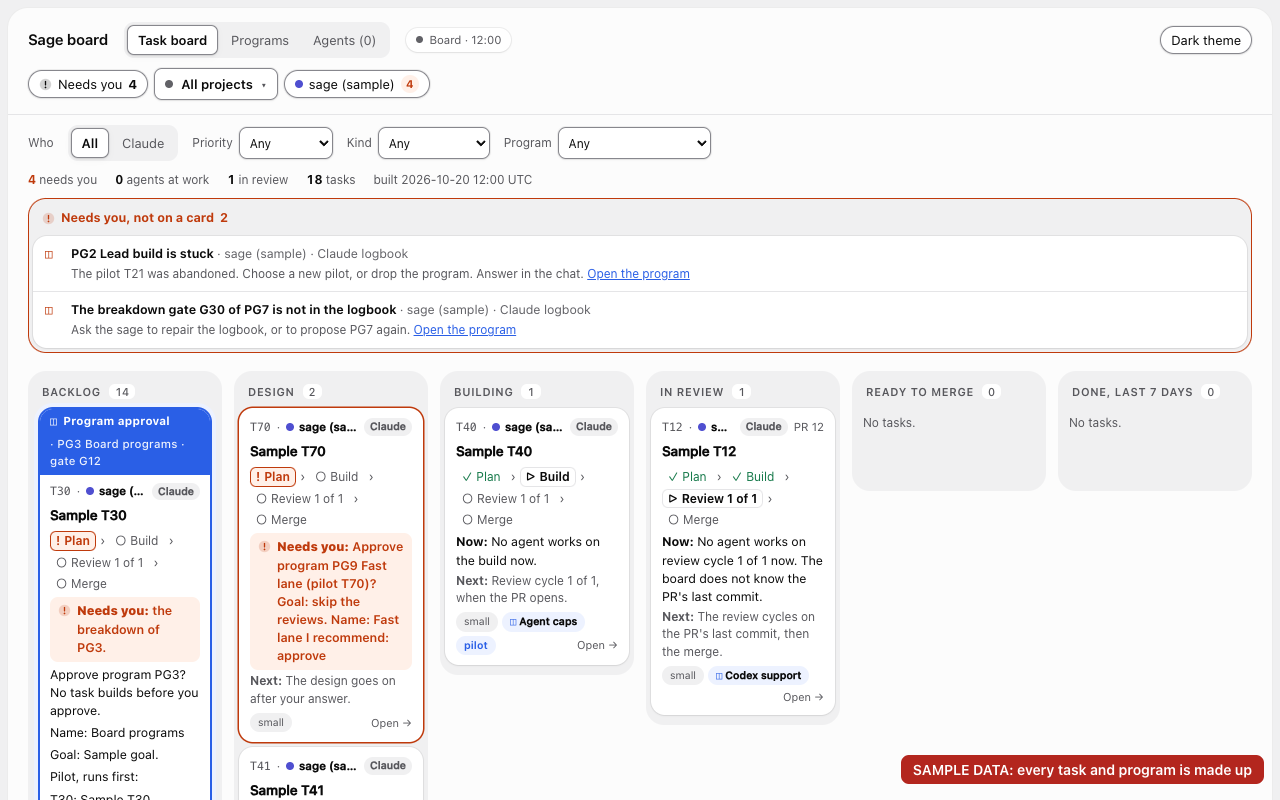
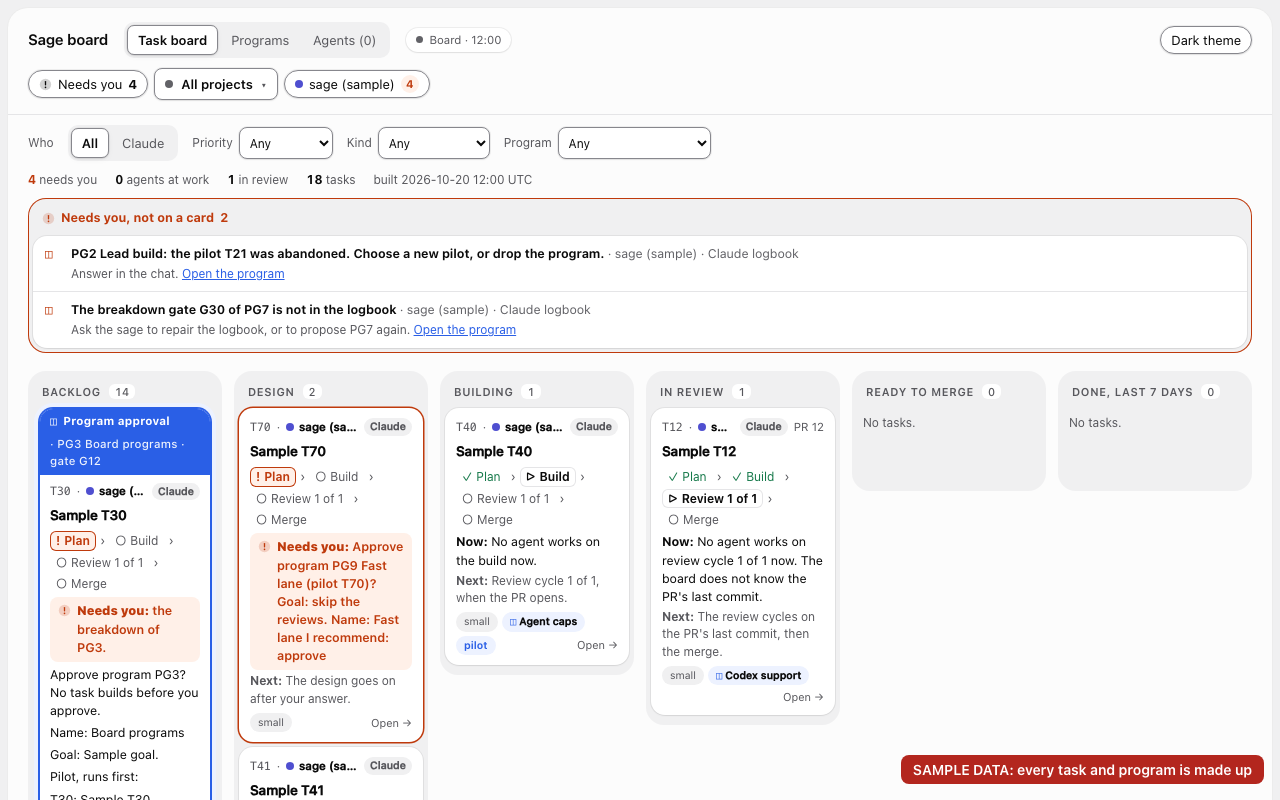
Docs on the final board: new screenshots, board text checked, changelog for PRs 300 and 302 (T381)
- Take the six board screenshots again from the final board (scripts/board-shots.mjs, SAMPLE DATA).
  The sample logbooks did not change, so board-shots.json keeps the same hash.
- docs/guide/board.md: the Needs you items with no card (a stuck program also before approval, a
  missing program, an unreadable provider folder), the loop wait, the chat's Programs counts (a
  dropped program with tasks keeps its line), short decision lines, "Program not found", one theme
  switch on each snapshot page, and the parent page for a page over 8 MB.
- README: show board starts the board page and gives its address (it opens no browser); a What's
  new line for the logbook problems that the board names.
- CHANGELOG: 2026-10-22 entries for the board polish (PR 300) and the board data rules (PR 302).
- readme-checks test: fill What's new up to 6 items from the real count, so the test holds for
  any README with 1 to 5 items.

Changed region(s): [[0.0625, 0.3125, 0.625, 0.375]]

diff --git a/docs/guide/board.md b/docs/guide/board.md
@@ -26,7 +26,7 @@ The browser board has a project picker (the button with the current project; "/"
 
 ## Needs you and task pages
 
-Needs you lists open questions with their options and recommendation, designs that wait for your answer, failed checks or QA, and PRs that need your review. A held task is on it only with an open question. Gate IDs include the source and project. The chief must resolve that exact logbook before recording an answer. Needs you also has items that no card holds: a stuck program (its pilot was abandoned or is not in the logbook), a breakdown gate that the logbook lost, a programs table that the board cannot read, and a logbook that it cannot read. Each item says why and what to do, and counts in "needs you". In the chat, a program's breakdown gate is under its own heading, "Program approval", and every other item is under "Other". On the board page, the items with no card are in the box "Needs you, not on a card" above the columns.
+Needs you lists open questions with their options and recommendation, designs that wait for your answer, failed checks or QA, and PRs that need your review. A held task is on it only with an open question. Gate IDs include the source and project. The chief must resolve that exact logbook before recording an answer. Needs you also has items that no card holds: a stuck program (its pilot was abandoned or is not in the logbook, also before you approve the breakdown), a breakdown gate that the logbook lost, a program that tasks name but the logbook does not have, a programs table that the board cannot read, a logbook that it cannot read, and a provider's logbook folder that it cannot read ("The Codex logbooks cannot be read"). Each item says why and what to do, and counts in "needs you". In the chat, the count of "needs you" equals the numbered items. In the chat, a program's breakdown gate is under its own heading, "Program approval", and every other item is under "Other". On the board page, the items with no card are in the box "Needs you, not on a card" above the columns.
 
 A task page shows the step line, one row for each step with its detail and each review role's state, the brief, runs, verdict evidence, findings, artifacts, and latest decisions. A task of a program also shows its program, with a link and the progress, each task that it waits for with its state (met, not met or never met), and the tasks that wait for it. The offline HTML file contains the selected tasks and their full details. Text from agents is escaped in both views.
 
@@ -54,14 +54,14 @@ A program is a request that sage runs as two or more tasks for one goal, with on
 
 | Where | What you see |
 | --- | --- |
-| A card | The program's name (◫), "pilot" on the pilot, and a wait line in place of the Now line: what the task waits for (⧗), or ⊘ when a wait is never met, so the task cannot start. |
+| A card | The program's name (◫), "pilot" on the pilot, and a wait line in place of the Now line: what the task waits for (⧗), or ⊘ when a wait is never met, so the task cannot start. A wait in a loop of waits (a hand edit) says "in a loop" and is never met. |
 | The pilot's card, while the breakdown waits for you | A "Program approval" band on top and a frame, then the breakdown gate's question as the sage stored it, line by line, and how to answer: approve, change (say what to change) or drop the program. Only the gate that the program's row names, on its pilot, with the options approve, change and drop, gets the band: a gate that only copies its words is a plain gate. |
 | The Program filter | The cards of one program, or of no program. A program with no card on the board (its tasks ended more than 7 days ago) says why, with a link to its page. The board keeps the choice in the address (`#pg=`). |
 | The Programs tab (`/programs`) | Each program in a group (Needs you, Active, Done; Dropped is folded) with its state, goal, progress bar and progress, for example "3 of 7 merged · T10 abandoned", and what moves next: only a task that waits for nothing, then how many tasks wait and which cannot start. A program whose breakdown you asked to change is a line here: the sage revises it. |
-| A program's page (`/program/<key>`) | Its goal and progress, the pilot, what moves next, its tasks in order (the pilot first, then each task after the tasks that it waits for), and its latest decisions. While the breakdown waits for you, the page shows the breakdown gate in the frame. An unknown program gives a page that says so, with status 404. |
-| The chat | A Programs section with one line for each program that is not done; done and dropped programs are counts, with ": open the board's Programs tab". |
+| A program's page (`/program/<key>`) | Its goal and progress, the pilot, what moves next, its tasks in order (the pilot first, then each task after the tasks that it waits for), and its latest decisions. While the breakdown waits for you, the page shows the breakdown gate in the frame. Its latest decisions are short lines with short dates, for example "17 Oct T2 merged: PR 66". An unknown program gives the page "Program not found", with status 404. |
+| The chat | A Programs section with one line for each program that is not done. Done programs, and dropped programs with no task left in them, are counts, with ": open the board's Programs tab". A dropped program with tasks still in it keeps its line, which asks the sage to take each task out. |
 
-The offline HTML file holds the programs list and each program's page too, as parts of the one file.
+The offline HTML file holds the programs list and each program's page too, as parts of the one file. Each of its pages has its own theme switch.
 
 ## The board server
 
@@ -69,6 +69,6 @@ The read-only board does not initialize logbooks, acquire their write locks, upd
 
 In Claude, `show board` also starts the local board server on the Mac when it is not running (the first time, it sets it up from the standard Claude and Codex roots), and the chief shows its address, or why it is not running, next to the chat board. On the Mac the board needs no sign-in. On the phone, through a private HTTPS tunnel, you sign in as `sage` with your own password. Set it once in Terminal on the Mac with the `board --set-password` command that the line gives; until then, access from outside the Mac is off. The command needs a terminal, and the sage hook refuses the ordinary command shapes by which an agent sets the password or reads the board config. It does not stop a script that builds them while it runs; full protection needs the sandbox. After you change the config or the password, or update sage, the line says that a restart is needed: run the `board --stop` command that it gives, then ask for the board again.
 
-The [board service guide](../../packages/sage-board/README.md) gives local startup, stable installation, offline export, and private phone access through a private HTTPS tunnel, such as Tailscale Serve. The server runs independently of a chat. It listens on loopback and asks for a sign-in for every request that is not from the Mac itself.
+The [board service guide](../../packages/sage-board/README.md) gives local startup, stable installation, offline export, and private phone access through a private HTTPS tunnel, such as Tailscale Serve. The server runs independently of a chat. It listens on loopback and asks for a sign-in for every request that is not from the Mac itself. A task page or a program page that is too large to show (over 8 MB) shows its parent page (the board, or the programs list) with a note, and the rest of the board stays live.
 
 `board --install --login-file` refuses when no upgrade-stable `node` command is on PATH, for example with asdf, Volta, fnm or a keg-only Homebrew Node. To fix it, put a `node` link to the Node that you run the install with in a folder that you own and that is on PATH (for example `~/.local/bin/node`), then run the install again.

diff --git a/CHANGELOG.md b/CHANGELOG.md
@@ -5,6 +5,12 @@ Each date is the day of the first commit that made the change. Older changes are
 
 > **Warning:** before you use waits or programs, update sage and restart every session that was already open. An older session still merges a waiting task, or a task of a program that you did not approve. See [To update sage](docs/guide/using-sage.md#to-update-sage).
 
+## 2026-10-22
+
+- **The board names more logbook problems.** A program whose pilot is abandoned or not in the logbook is stuck, also before you approve its breakdown: it is an item of Needs you, and each task of it cannot start. A task that names a program that the logbook does not have is an item too ("The program PG4 is not in the logbook"), and so is a provider's logbook folder that the board cannot read ("The Codex logbooks cannot be read"). A task in a loop of waits, from a hand edit, shows "in a loop" and "it cannot start", with a repair line. When a gate on the pilot has the breakdown options but its question names no program or another one, every line says so. When every table of a logbook fails for one reason, one item gives it, for example "Its folder has no read permission". The chat board's count of "needs you" equals its numbered items, and `show status` says "N need you". A task page or a program page that is too large to show (over 8 MB) shows its parent page, the board or the programs list, with a note; the rest of the board stays live.
+
+- **Board polish.** A program page shows its latest decisions in a short form with short dates, for example "17 Oct T2 merged: PR 66". It says what moves next in plain words: "T13 can start when T12 merges." and "T11 cannot start: it waits for T10, which was abandoned." An unknown program has a page with the heading "Program not found", and status 404. In the offline snapshot, each page has its own theme switch, and open board tabs follow a theme change in another tab. In forced colours, the chosen tab and Who pill have a border. The picker says "1 project", and a project change ends a Program filter of another project. On a chat card, the wait line comes after the step line.
+
 ## 2026-10-21
 
 - **The board page has a new look, and it is dark by default.** Every board page (the board, a task page, Programs, a program page, Agents and the offline snapshot) puts its cards in grey trays inside one rounded page panel. On a phone the panel fills the screen from edge to edge. The page opens in the dark theme, also on a light system. The switch at the top changes the theme, and the board keeps your choice in this browser. Every text meets AA contrast in both themes, at phone and desktop width. Motion is quiet: a short fade and a 1 px lift on hover, and none when your system asks for reduced motion. The information and the flows are the same as before.

diff --git a/README.md b/README.md
@@ -65,7 +65,7 @@ To update, run `claude plugin update sage@sage` and start a new session. To stop
 
 ## The board
 
-Send `show board` to see what needs you, the agents at work, and each task in its column. On the Mac, it also opens a board page.
+Send `show board` to see what needs you, the agents at work, and each task in its column. On the Mac, it also starts the board page and gives its address.
 
 <picture>
   <source media="(prefers-color-scheme: dark)" srcset="docs/assets/board-dark.png">
@@ -103,6 +103,7 @@ Every rule and its reason: [Rules held in code](docs/design/rules-in-code.md). R
 
 > **Warning:** before you use waits or programs, update sage and restart every session that was already open. An older session still merges a waiting task, or a task of a program that you did not approve.
 
+- **The board names more logbook problems:** a stuck program, a missing program and a logbook that it cannot read are items of Needs you.
 - **The board page has a new look:** dark by default, with AA contrast in both themes.
 - **Programs:** you approve the breakdown of a multi-task goal before any task of it builds.
 - **A task can wait for other tasks**, and the board has an Agents page and a project picker.
